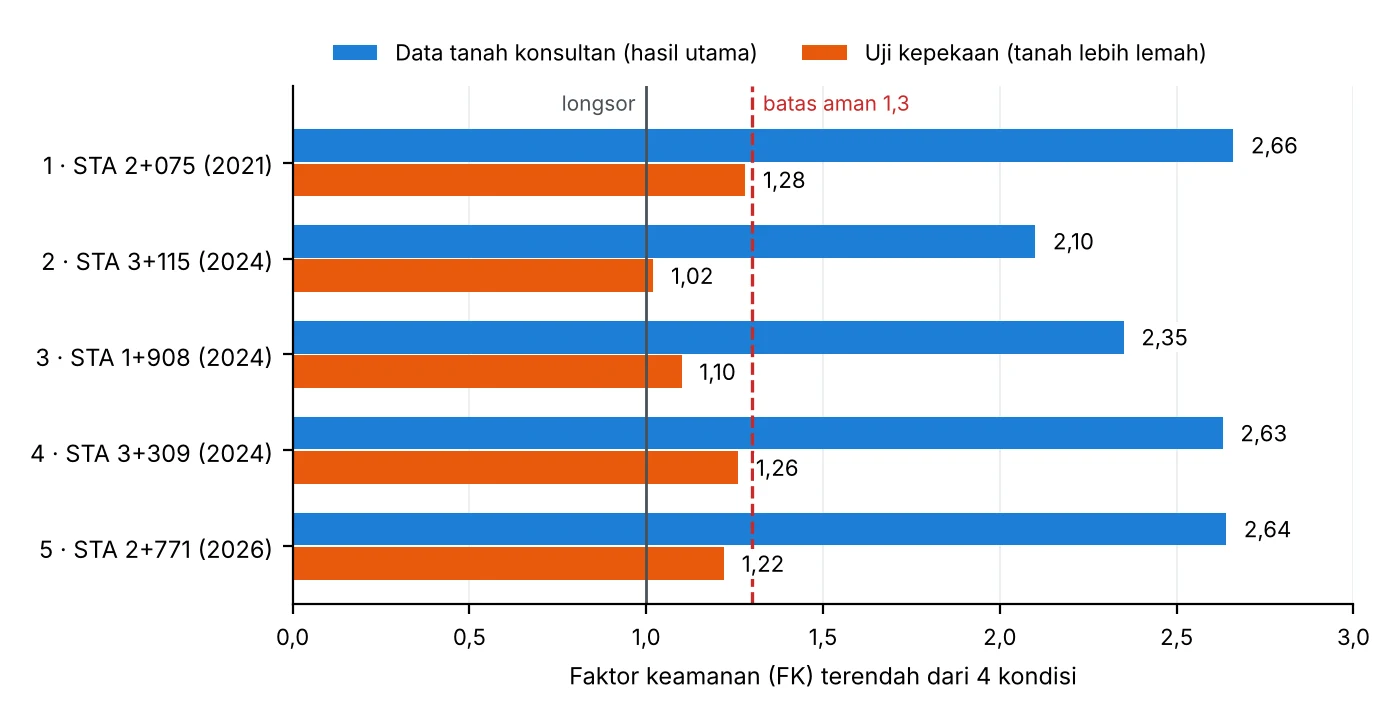
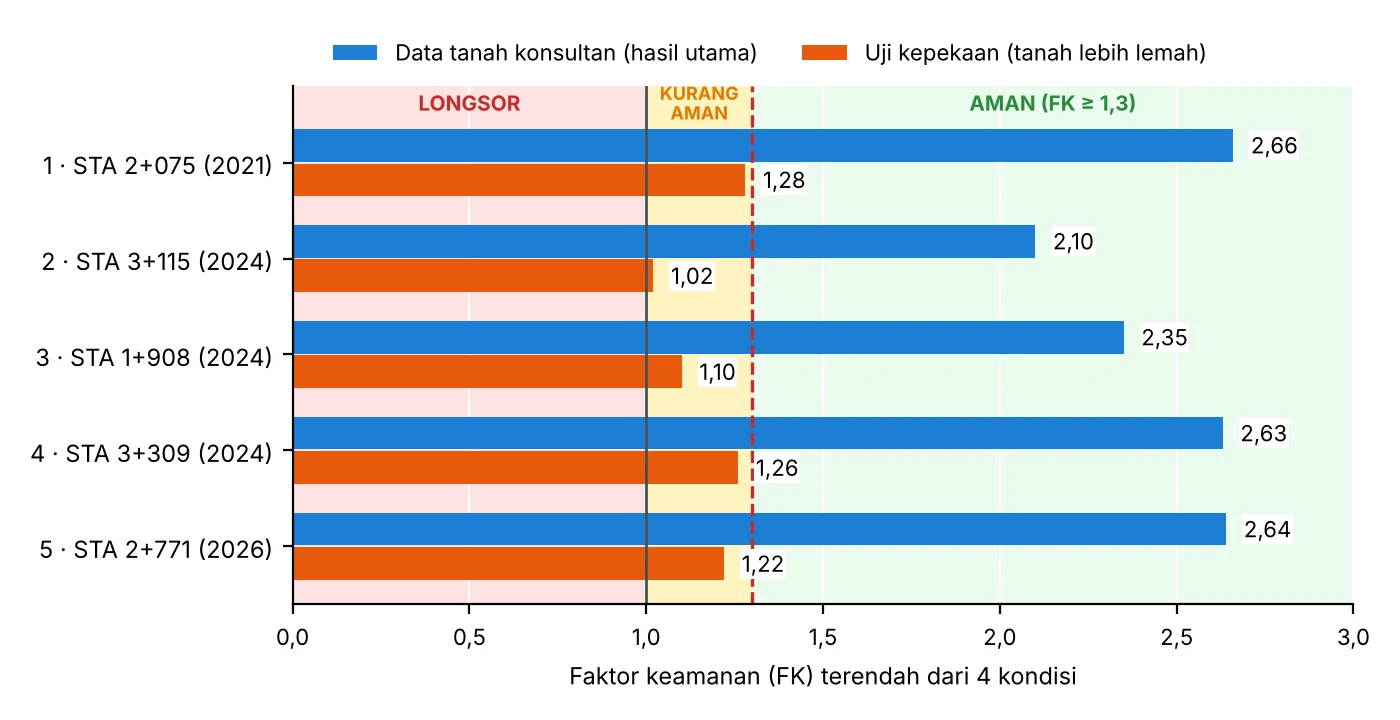
Tab Geoteknik & lereng dirapikan: ringkasan awam, cara membaca FK, rekomendasi berprioritas, catatan teknis
Claude-Session: https://claude.ai/code/session_01WqnN3AEQS9m9dTNSCEmWTx

diff --git a/index.html b/index.html
@@ -1653,7 +1653,7 @@ body.dark .anltb th{background:#12304a}
 body.dark .anltb td{border-bottom-color:#1e3048}
 body.dark .anlnt{background:#122238;color:#a9c0d6}
 body.dark .anlsrc{color:#8fa7bd;border-top-color:#1e3048}
-body.dark .anlbd img{filter:invert(1) hue-rotate(180deg) saturate(1.25) brightness(1.08);mix-blend-mode:screen;border-color:transparent}
+body.dark .anlbd img{filter:invert(1) hue-rotate(180deg) saturate(1.25) brightness(1.08);mix-blend-mode:screen;border-color:transparent}body.dark .anlbd img.keep{filter:none;mix-blend-mode:normal;border-radius:8px}
 .note.info{background:#e3fafc;color:#0b7285}.note.ok{background:#e6fcf5;color:#087f5b}
 body.dark .note.info{background:rgba(34,184,207,.14);color:#99e9f2}body.dark .note.ok{background:rgba(18,184,134,.14);color:#96f2d7}
 
@@ -3708,50 +3708,73 @@ document.querySelectorAll(".tab").forEach(t => t.onclick = () => {
         </div>
       </div>
       <div class="anlpane" data-p="g" hidden>
-      <p class="anllead">Mengapa pipa GRP DN 1.200 di tanggul saluran induk Riam Kanan berulang kali bocor, dan apakah tanggulnya berisiko longsor? Analisa ini memakai data penyelidikan tanah, topografi, dan uji lab dari Laporan Reviu Desain BWS Kalimantan III (2025).</p>
+      <p class="anllead">Pipa transmisi GRP DN 1.200 di tanggul saluran induk Riam Kanan (Sei Landas, Karang Intan) sudah 5 kali bocor sejak 2021. Kajian ini menjawab dua pertanyaan: <b>mengapa pipa sering bocor di ruas ini</b>, dan <b>apakah tanggulnya berisiko longsor</b>.</p>
+      <div style="margin:10px 0 12px;padding:10px 13px;border-radius:10px;background:rgba(47,158,68,.10);border-left:4px solid #2f9e44;font-size:13.5px;line-height:1.55"><b>Ringkasnya:</b> kelima titik bocor berada di ruas yang tanahnya lunak dan tebal, sehingga tanah di bawah pipa mudah turun dan menggeser sambungan pipa. Tanggulnya sendiri <b>masih aman dari longsor</b> menurut data tanah konsultan. Namun air dari pipa yang bocor melemahkan tanggul, jadi <b>kebocoran harus cepat ditangani</b>, terutama di titik 2 (STA 3+115) dan titik 3 (STA 1+908).</div>
       <div class="anlkpi">
-        <div><b>5 dari 5</b><span>kebocoran terjadi di zona tanah lunak tebal</span></div>
-        <div><b>Aman</b><span>kelima lereng tanggul menurut data tanah konsultan</span></div>
-        <div><b>2,10</b><span>FK terendah (STA 3+115); batas aman 1,3</span></div>
-        <div><b>2 lokasi</b><span>peka bila tanah lebih lemah: STA 3+115 &amp; 1+908</span></div>
+        <div><b>5 dari 5</b><span>titik bocor ada di ruas tanah lunak tebal</span></div>
+        <div><b>Aman</b><span>kelima lereng tanggul tidak berisiko longsor</span></div>
+        <div><b>2,10</b><span>angka keamanan terendah (titik 2); batas aman 1,3</span></div>
+        <div><b>2 titik</b><span>perlu dipantau lebih ketat: titik 2 &amp; 3</span></div>
       </div>
-      <h3>1. Kondisi tanah di sepanjang jalur pipa</h3>
-      <p>Jalur pipa ±4,9 km dibagi menjadi 10 zona berdasarkan hasil sondir dan bor. Di <b>zona 1 dan zona 5–9 (STA 1+761 sampai 4+463)</b> lapisan tanah lunak (gambut/lanau) lebih tebal dari kedalaman dasar pipa (±3 m), sehingga pipa bertumpu pada tanah yang mudah turun.</p>
+      <div style="margin:10px 0 12px;padding:10px 13px;border-radius:10px;background:rgba(28,126,214,.08);border-left:4px solid #1c7ed6;font-size:13.5px;line-height:1.55"><b>Cara membaca angka keamanan (FK).</b> FK membandingkan kekuatan tanah menahan lereng dengan beban yang mendorongnya longsor. <b>FK = 1</b> berarti keduanya seimbang, lereng di ambang longsor. <b>FK = 2</b> berarti tanah dua kali lebih kuat dari yang dibutuhkan. Lereng dianggap aman bila FK ≥ 1,5 dalam kondisi normal, dan ≥ 1,3 dalam kondisi sementara seperti saat pipa bocor.</div>
+      <h3>1. Mengapa pipa sering bocor di ruas ini?</h3>
+      <p>Hasil sondir dan bor BWS 2025 membagi jalur pipa sepanjang ±4,9 km menjadi 10 zona. Di <b>zona 5–9 (STA 1+761 sampai 4+463)</b>, lapisan tanah lunak (gambut/lanau) lebih dalam dari dasar pipa (±3 m). Pipa di zona ini bertumpu pada tanah yang mudah turun.</p>
       <ul>
-        <li><b>Kelima kebocoran 2021–2026 berada di zona 5, 7, dan 8</b>, yaitu zona dengan tanah lunak di bawah dasar pipa. Zona 2–4 yang tanahnya lebih kaku belum pernah bocor.</li>
-        <li>Semua kebocoran terjadi di <b>sambungan pipa</b>. Penurunan tanah yang tidak merata dapat menarik atau membengkokkan sambungan sehingga karet sambungan lepas.</li>
-        <li>Ini indikasi kuat, bukan satu-satunya penyebab; beban kendaraan di jalan inspeksi dan mutu pemasangan sambungan juga berpengaruh.</li>
+        <li><b>Kelima kebocoran berada di zona 5, 7, dan 8.</b> Zona 2–4 yang tanahnya lebih kaku belum pernah bocor. Zona 1 dan 6 juga bertanah lunak tetapi belum pernah bocor, sehingga tanah lunak bukan satu-satunya faktor.</li>
+        <li><b>Semua kebocoran terjadi di sambungan pipa</b>, dua di antaranya karena sambungan bergeser. Ini sesuai dengan pola tanah yang turun tidak merata: tanah di satu sisi sambungan turun lebih banyak, sehingga sambungan tertarik atau tertekuk.</li>
+        <li><b>Faktor lain ikut berperan:</b> beban kendaraan di persilangan jalan (titik 2) dan aksesoris sambungan pengganti buatan vendor karena aslinya tidak tersedia di pasaran (titik 3).</li>
       </ul>
-      <h3>2. Stabilitas lereng tanggul di 5 titik bocor</h3>
-      <p>Lereng tanggul sisi saluran dianalisa dengan metode Bishop pada 4 kondisi: normal, pipa bocor (tanah tanggul jenuh), pipa bocor + kendaraan, dan air saluran surut cepat saat pipa bocor. Angka yang dipakai adalah <b>faktor keamanan (FK) terendah</b> dari keempat kondisi itu.</p>
-      <img src="anl_lereng.webp" alt="Grafik faktor keamanan lereng tanggul di 5 titik kebocoran" width="1400" height="720" loading="lazy">
+      <p style="font-size:12.5px;color:var(--muted)">Kaitan tanah lunak dan kebocoran ini kuat, tetapi baru berdasarkan 5 kejadian. Kaitan itu menunjukkan dugaan penyebab, belum membuktikannya.</p>
+      <h3>2. Apakah tanggul berisiko longsor?</h3>
+      <p>Di setiap titik bocor, lereng tanggul di sisi saluran dihitung pada 4 kondisi:</p>
+      <ul>
+        <li><b>Normal</b>: tanpa kebocoran.</li>
+        <li><b>Pipa bocor</b>: air bocoran membuat tanah tanggul jenuh dan lebih lemah.</li>
+        <li><b>Pipa bocor + kendaraan</b> lewat di jalan inspeksi di atas tanggul.</li>
+        <li><b>Pipa bocor + air saluran surut cepat</b>: tekanan air yang menahan lereng dari sisi saluran hilang mendadak.</li>
+      </ul>
+      <p>Grafik dan tabel menampilkan <b>FK terendah</b> dari keempat kondisi itu. <b>Batang biru</b> adalah hasil utama dengan data tanah konsultan. <b>Batang oranye</b> adalah uji kepekaan: hitungan yang sama, tetapi kekuatan tanah sengaja dibuat jauh lebih lemah, untuk melihat seberapa peka tiap lokasi bila kondisi lapangan lebih buruk dari hasil lab.</p>
+      <img class="keep" src="anl_lereng.webp?v=2" alt="Grafik angka keamanan lereng tanggul di 5 titik kebocoran" width="1400" height="720" loading="lazy">
       <table class="anltb">
         <tr><th>No</th><th>Lokasi</th><th>FK terendah</th><th>Status</th></tr>
-        <tr class="r0"><td>1</td><td>STA 2+075<br><small>bocor 2021 · lereng 1 : 3,3</small></td><td>2,66<br><small>turun 19% saat bocor</small></td><td>Aman</td></tr>
-        <tr class="r3"><td>2</td><td>STA 3+115<br><small>bocor 2024 · lereng 1 : 1,9 (curam)</small></td><td>2,10<br><small>turun 17% saat bocor</small></td><td>Aman, perlu dipantau</td></tr>
-        <tr class="r3"><td>3</td><td>STA 1+908<br><small>bocor 2024 · lereng 1 : 4,0</small></td><td>2,35<br><small>turun 23% saat bocor</small></td><td>Aman, perlu dipantau</td></tr>
-        <tr class="r0"><td>4</td><td>STA 3+309<br><small>bocor 2024 · lereng 1 : 1,9 (curam)</small></td><td>2,63<br><small>turun 20% saat bocor</small></td><td>Aman</td></tr>
-        <tr class="r0"><td>5</td><td>STA 2+771<br><small>bocor 2026 · lereng 1 : 3,8</small></td><td>2,64<br><small>turun 23% saat bocor</small></td><td>Aman</td></tr>
+        <tr class="r0"><td>1</td><td style="white-space:normal;min-width:120px">STA 2+075<br><small style="font-weight:400">bocor 2021: sambungan bergeser<br>lereng 1 : 3,3 (landai)</small></td><td><b>2,66</b><br><small>turun 19% saat bocor<br>uji kepekaan: 1,28</small></td><td>Aman</td></tr>
+        <tr class="r3"><td>2</td><td style="white-space:normal;min-width:120px">STA 3+115<br><small style="font-weight:400">bocor 2024: sambungan bergeser, di persilangan jalan<br>lereng 1 : 1,9 (curam)</small></td><td><b>2,10</b><br><small>turun 17% saat bocor<br>uji kepekaan: 1,02</small></td><td>Aman, paling peka</td></tr>
+        <tr class="r3"><td>3</td><td style="white-space:normal;min-width:120px">STA 1+908<br><small style="font-weight:400">bocor 2024: sambungan bocor, aksesoris pengganti buatan vendor<br>lereng 1 : 4,0 (landai)</small></td><td><b>2,35</b><br><small>turun 23% saat bocor<br>uji kepekaan: 1,10</small></td><td>Aman, peka</td></tr>
+        <tr class="r0"><td>4</td><td style="white-space:normal;min-width:120px">STA 3+309<br><small style="font-weight:400">bocor 2024: sambungan bocor<br>lereng 1 : 1,9 (curam)</small></td><td><b>2,63</b><br><small>turun 20% saat bocor<br>uji kepekaan: 1,26</small></td><td>Aman</td></tr>
+        <tr class="r0"><td>5</td><td style="white-space:normal;min-width:120px">STA 2+771<br><small style="font-weight:400">bocor 2026: sambungan bocor<br>lereng 1 : 3,8 (landai)</small></td><td><b>2,64</b><br><small>turun 23% saat bocor<br>uji kepekaan: 1,22</small></td><td>Aman</td></tr>
       </table>
-      <h3>3. Artinya</h3>
+      <h3>3. Kesimpulan</h3>
       <ul>
-        <li><b>Dengan data tanah konsultan, tanggul tidak berisiko longsor</b> di kelima lokasi, termasuk saat pipa bocor dan ada kendaraan lewat. FK terendah 2,10, jauh di atas batas aman 1,3.</li>
-        <li><b>Kebocoran pipa adalah pemicu terbesar.</b> Air bocoran membuat tanah tanggul jenuh dan menurunkan keamanan lereng 17–23%.</li>
-        <li><b>Pipa berada di dalam zona bidang longsor.</b> Bila suatu saat lereng bergerak, pipa ikut tertarik dan rusak, sehingga kebocoran dan longsor bisa saling memicu.</li>
-        <li><b>Uji kepekaan:</b> bila kekuatan tanah di lapangan jauh lebih rendah dari hasil lab, FK di STA 3+115 turun ke 1,02 dan di STA 1+908 ke 1,10, yaitu hampir longsor. Kedua lokasi ini paling peka dan perlu dipantau lebih ketat.</li>
+        <li><b>Tanggul aman dari longsor</b> di kelima lokasi, termasuk saat pipa bocor dan ada kendaraan lewat. FK terendah 2,10, jauh di atas batas 1,3.</li>
+        <li><b>Kebocoran adalah pemicu terbesar.</b> Air bocoran menurunkan keamanan lereng 17–23%.</li>
+        <li><b>Pipa berada di dalam bidang longsor.</b> Kalau lereng sampai bergerak, pipa ikut rusak. Sebaliknya, kebocoran yang dibiarkan melemahkan lereng. Keduanya bisa saling memperparah.</li>
+        <li><b>Titik 2 (STA 3+115) dan titik 3 (STA 1+908) paling peka.</b> Bila tanah di lapangan jauh lebih lemah dari hasil lab, FK di sana turun ke 1,02 dan 1,10, yaitu hampir longsor. Titik 2 juga punya lereng paling curam (1 : 1,9).</li>
       </ul>
       <h3>4. Rekomendasi</h3>
-      <ul>
-        <li><b>Tangani kebocoran secepatnya</b>, sebelum air bocoran sempat menjenuhkan tanggul.</li>
-        <li><b>Batasi kendaraan berat</b> di jalan inspeksi di atas pipa, terutama di zona 5–8.</li>
-        <li><b>Patroli rutin di STA 1+908 dan 3+115</b>: cari retakan memanjang di puncak tanggul, rembesan di lereng, dan amblesan.</li>
-        <li>Untuk desain rehabilitasi: pertimbangkan perbaikan tanah dasar atau sambungan pipa yang lebih lentur di zona tanah lunak, dan <b>ukur penampang dasar saluran</b> agar hasil analisa lebih pasti.</li>
-      </ul>
+      <table class="anltb">
+        <tr><th>Prioritas</th><th>Tindakan</th></tr>
+        <tr class="r1"><td>Segera</td><td style="white-space:normal;font-weight:400">Tangani setiap kebocoran secepatnya, sebelum air bocoran menjenuhkan tanggul.</td></tr>
+        <tr class="r2"><td>Rutin</td><td style="white-space:normal;font-weight:400">Patroli di titik 2 dan 3: cari retak memanjang di puncak tanggul, rembesan di lereng, dan amblesan di atas pipa.</td></tr>
+        <tr class="r2"><td>Rutin</td><td style="white-space:normal;font-weight:400">Batasi kendaraan berat di jalan inspeksi di atas pipa, terutama di zona 5–8.</td></tr>
+        <tr class="r3"><td>Desain</td><td style="white-space:normal;font-weight:400">Untuk rehabilitasi: perbaiki tanah dasar pipa atau pakai sambungan yang lebih lentur di zona tanah lunak, sediakan stok aksesoris sambungan asli, dan ukur penampang dasar saluran agar analisa lebih pasti.</td></tr>
+      </table>
       <div class="anlgo" style="margin-top:12px">
-        <button data-lereng="peta"><span class="ic" style="--c:#e03131"><svg class="i" aria-hidden="true"><use href="#i-warn"/></svg></span><b>Lihat 5 titik di peta</b><span>Gambar penampang, grafik FK, dan data tiap lokasi</span></button>
+        <button data-lereng="peta"><span class="ic" style="--c:#e03131"><svg class="i" aria-hidden="true"><use href="#i-warn"/></svg></span><b>Lihat 5 titik di peta</b><span>Gambar penampang dan angka keamanan tiap lokasi</span></button>
         <button data-go="bocor"><span class="ic" style="--c:#e03131"><svg class="i" aria-hidden="true"><use href="#i-doc"/></svg></span><b>Riwayat kebocoran</b><span>Tanggal, kerusakan, penanganan, dan foto tiap kejadian</span></button>
       </div>
-      <p class="srcx"><b>Sumber dan keterbatasan:</b> analisa BPAM Banjarbakula (Nov 2026) dari Laporan Akhir Reviu Desain Rehabilitasi Pipa Transmisi, BWS Kalimantan III (2025): sondir, bor, uji lab tanah, dan peta situasi 1:2.000. Dasar saluran tidak terukur dan diasumsikan 1,5 m di bawah muka air; beban kendaraan 10 kPa; zona tanah adalah generalisasi antar titik uji.</p>
+      <details style="margin:12px 0;padding:8px 12px;border:1px solid var(--line);border-radius:10px;font-size:12.5px;line-height:1.55">
+        <summary style="cursor:pointer;font-weight:700">Catatan teknis (metode &amp; asumsi)</summary>
+        <ul style="margin:8px 0 2px">
+          <li><b>Metode:</b> kesetimbangan batas, Bishop disederhanakan, bidang longsor lingkaran dengan pencarian grid pusat/jari-jari. Lereng sisi saluran di 5 penampang; lereng sisi darat juga dicek bila ada beda tinggi ≥ 1,5 m.</li>
+          <li><b>Geometri:</b> titik tinggi peta situasi konsultan skala 1:2.000, datum elevasi konsultan. Elevasi DEMNAS rata-rata ±6,4 m lebih tinggi pada datum yang berbeda, jadi tidak dipakai untuk analisa ini.</li>
+          <li><b>Tanah:</b> 2 lapis, yaitu tubuh tanggul/tanah atas dan tanah lunak di bawah muka air saluran. Hasil utama memakai rata-rata uji geser langsung lab (lampiran laporan BWS 2025). Uji kepekaan menurunkan kohesi sekitar dua pertiga dan sudut geser dalam sampai ±17°.</li>
+          <li><b>Air:</b> saat bocor, muka air dalam tanggul dianggap naik sampai ±0,5 m di bawah permukaan di atas pipa, lalu turun ke muka air saluran. Pada kondisi surut cepat, air saluran turun 1,5 m tanpa sempat mengalir keluar dari tanggul.</li>
+          <li><b>Beban:</b> kendaraan 10 kPa di jalan inspeksi.</li>
+          <li><b>Kriteria:</b> FK ≥ 1,5 untuk kondisi normal dan ≥ 1,3 untuk kondisi sementara (bocor/surut cepat), mengacu pada SNI 8460:2017.</li>
+          <li><b>Keterbatasan:</b> dasar saluran tidak terukur dan diasumsikan 1,5 m di bawah muka air; hasil cukup peka terhadap asumsi ini. Zona tanah adalah generalisasi antar titik uji.</li>
+        </ul>
+      </details>
+      <p class="srcx"><b>Sumber:</b> kajian BPAM Banjarbakula (19 Nov 2026), berdasarkan Laporan Akhir Reviu Desain Rehabilitasi Pipa Transmisi Air Baku, BWS Kalimantan III (2025), dan laporan kejadian kebocoran BPAM 2021–2026.</p>
       </div>
       <div class="anlpane" data-p="k" hidden>
       <div class="anlkpi">

diff --git a/sw.js b/sw.js
@@ -1,7 +1,7 @@
 // Service worker GeoSPAM Bakula (v4, ringan):
 // - halaman: jaringan dulu, tapi kalau sinyal lambat (>3,5 dtk) langsung pakai cache
 // - data statis & gambar: pakai cache, diperbarui diam-diam di belakang
-const C = "geospam-v45", T = "geospam-tiles-v1", TMAX = 900;
+const C = "geospam-v46", T = "geospam-tiles-v1", TMAX = 900;
 let puts = 0;
 self.addEventListener("install", e => self.skipWaiting());
 self.addEventListener("activate", e => e.waitUntil(
